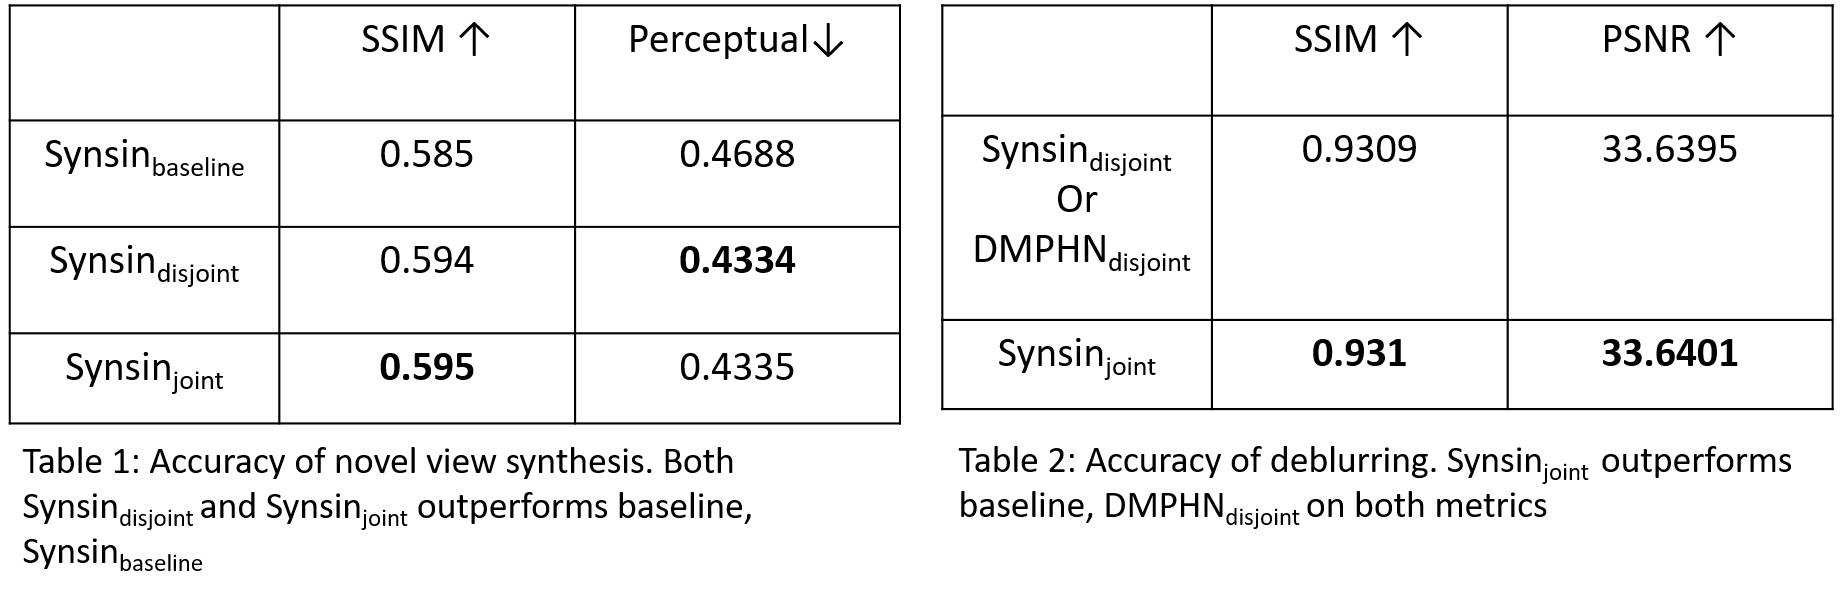
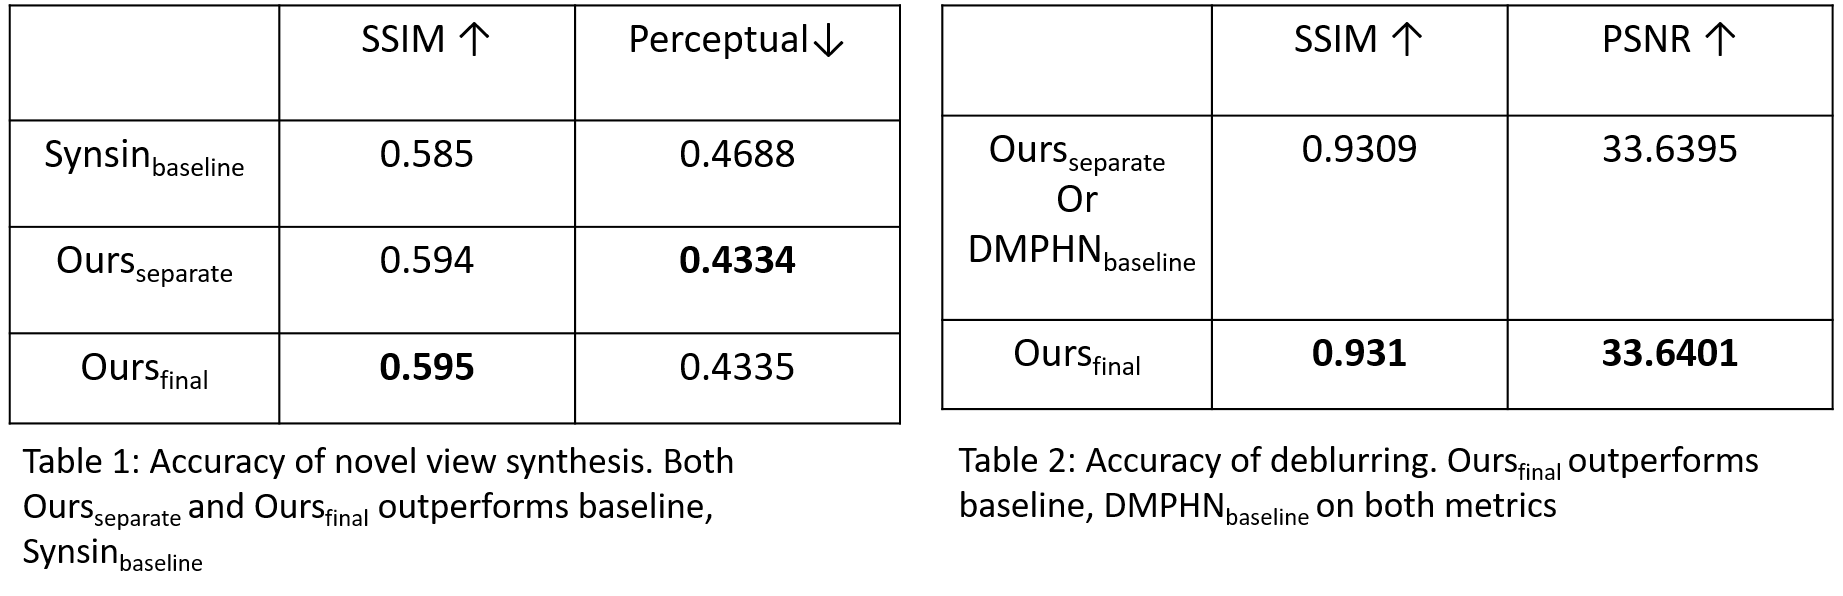
minor updates

diff --git a/deblur.html b/deblur.html
@@ -149,15 +149,15 @@
 									<ul class="ordered-list">
 												<li style="color:black">Synsin<sub style="color:black">baseline</sub>: We train Synsin for 150 epoch (75k iterations) on our dataset.</li>
 												<li style="color:black">DMPHN<sub style="color:black">baseline</sub>: We take the pretrained model of DMPHN and train further on our dataset for 85 epochs until convergence.</li>								
-												<li style="color:black">Synsin<sub style="color:black">disjoint</sub>: We run inference using Synsin<sub style="color:black">baseline</sub> & DMPHN<sub style="color:black">baseline</sub>
+												<li style="color:black">Ours<sub style="color:black">separate</sub>: We run inference using Synsin<sub style="color:black">baseline</sub> & DMPHN<sub style="color:black">baseline</sub>
 												and report it. Specifically, we pass the blurred image through the DMPHN<sub style="color:black">baseline</sub> to get a deblurred image and then pass it through 
 												Synsin<sub style="color:black">baseline</sub> to project into a new view.</li>
-												<li style="color:black">Synsin<sub style="color:black">joint</sub>: We take DMPHN<sub style="color:black">baseline</sub> & 
+												<li style="color:black">Ours<sub style="color:black">final</sub>: We take DMPHN<sub style="color:black">baseline</sub> & 
 												Synsin<sub style="color:black">baseline</sub> and train further for 50 epoch (25k iteration) jointly.</li>
 									</ul>
 								
-								Table 1 and 2 report the results obtained so far. The results show that our joint not only outperforms baseline in terms of novel view synthesis,
-								but also improves result of deblurring operation as well.
+								Table 1 and 2 report the results obtained so far. The results show that our architecture not only outperforms baseline in performance of novel view synthesis,
+								but also improves result of deblurring as well.
 					</div>
 								<br>
 								<img class="img-fluid" src="img/research/table_1.png" alt="">
@@ -172,8 +172,8 @@
 							</p>
 							<br>
 							<p>
-								<b style="color:black">Future Work:</b>
-								As this work is in progress, we are working further to find out how to increase the performance of Synsin.    
+								<b style="color:black">Conclusions:</b>
+								This is a work in progress. Currently, We are working on how to improve performance of our final architecture.   
 							</p>
 					</div>
 				</div>
